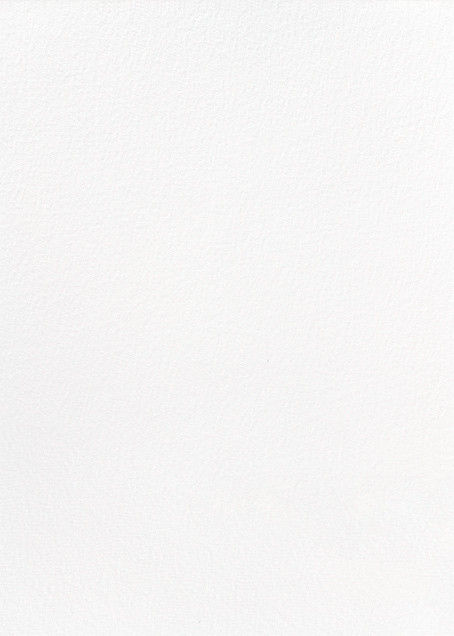
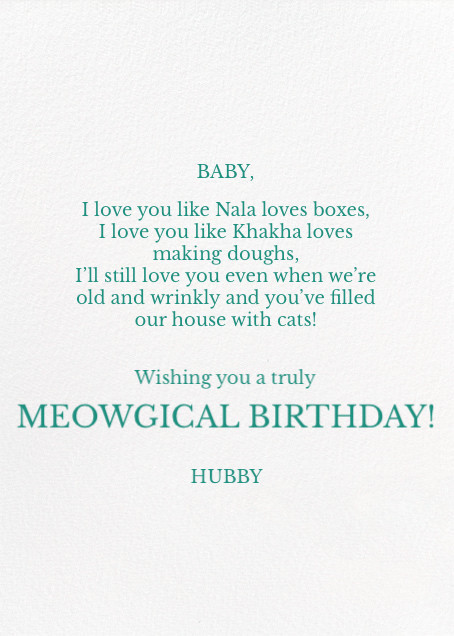
added custom message and background

Changed region(s): [[0.1542, 0.239, 0.8326, 0.5377], [0.0308, 0.5676, 0.9559, 0.6871], [0.4009, 0.717, 0.5859, 0.7767]]

diff --git a/style.css b/style.css
@@ -2,16 +2,21 @@ body {
   font-family: "Libre Baskerville", serif;
 }
 
-.spacer {
-  height: 50vh;
-  opacity: 0.2;
+.background {
+  position: fixed;
+  top: 0;
+  left: 0;
+  height: 100vh;
+  width: 100vw;
+  background-image: url(./assets/background.jpg);
+  background-position: center;
+  background-repeat: no-repeat;
+  background-size: cover;
 }
 
-.header {
-  display: flex;
-  align-items: center;
-  justify-content: center;
-  height: 60vh;
+.spacer {
+  height: 20vh;
+  opacity: 0.2;
 }
 
 .cards {
@@ -36,7 +41,7 @@ body {
 
 .card-back {
   position: absolute;
-  background-image: url(./assets/card-back.png);
+  background-image: url(./assets/blank-back.jpg);
   top: 10vh;
   left: 0;
   width: 100%;

diff --git a/index.html b/index.html
@@ -14,16 +14,13 @@
     <title>Susa Happy Birthday!</title>
   </head>
   <body>
-    <!-- <div class="spacer"></div> -->
+    <div class="background"></div>
+    <div class="spacer"></div>
     <div class="cards">
       <div class="card-front"></div>
       <div class="card-back"></div>
     </div>
-    <div class="header">
-      <h1>Happy 29th Birthday Baby!</h1>
-      <p></p>
-    </div>
-    <!-- <div class="spacer"></div> -->
+    <div class="spacer"></div>
     <script src="https://cdnjs.cloudflare.com/ajax/libs/gsap/3.11.3/gsap.min.js"></script>
     <script src="https://cdnjs.cloudflare.com/ajax/libs/gsap/3.11.3/ScrollTrigger.min.js"></script>
     <script src="main.js"></script>
